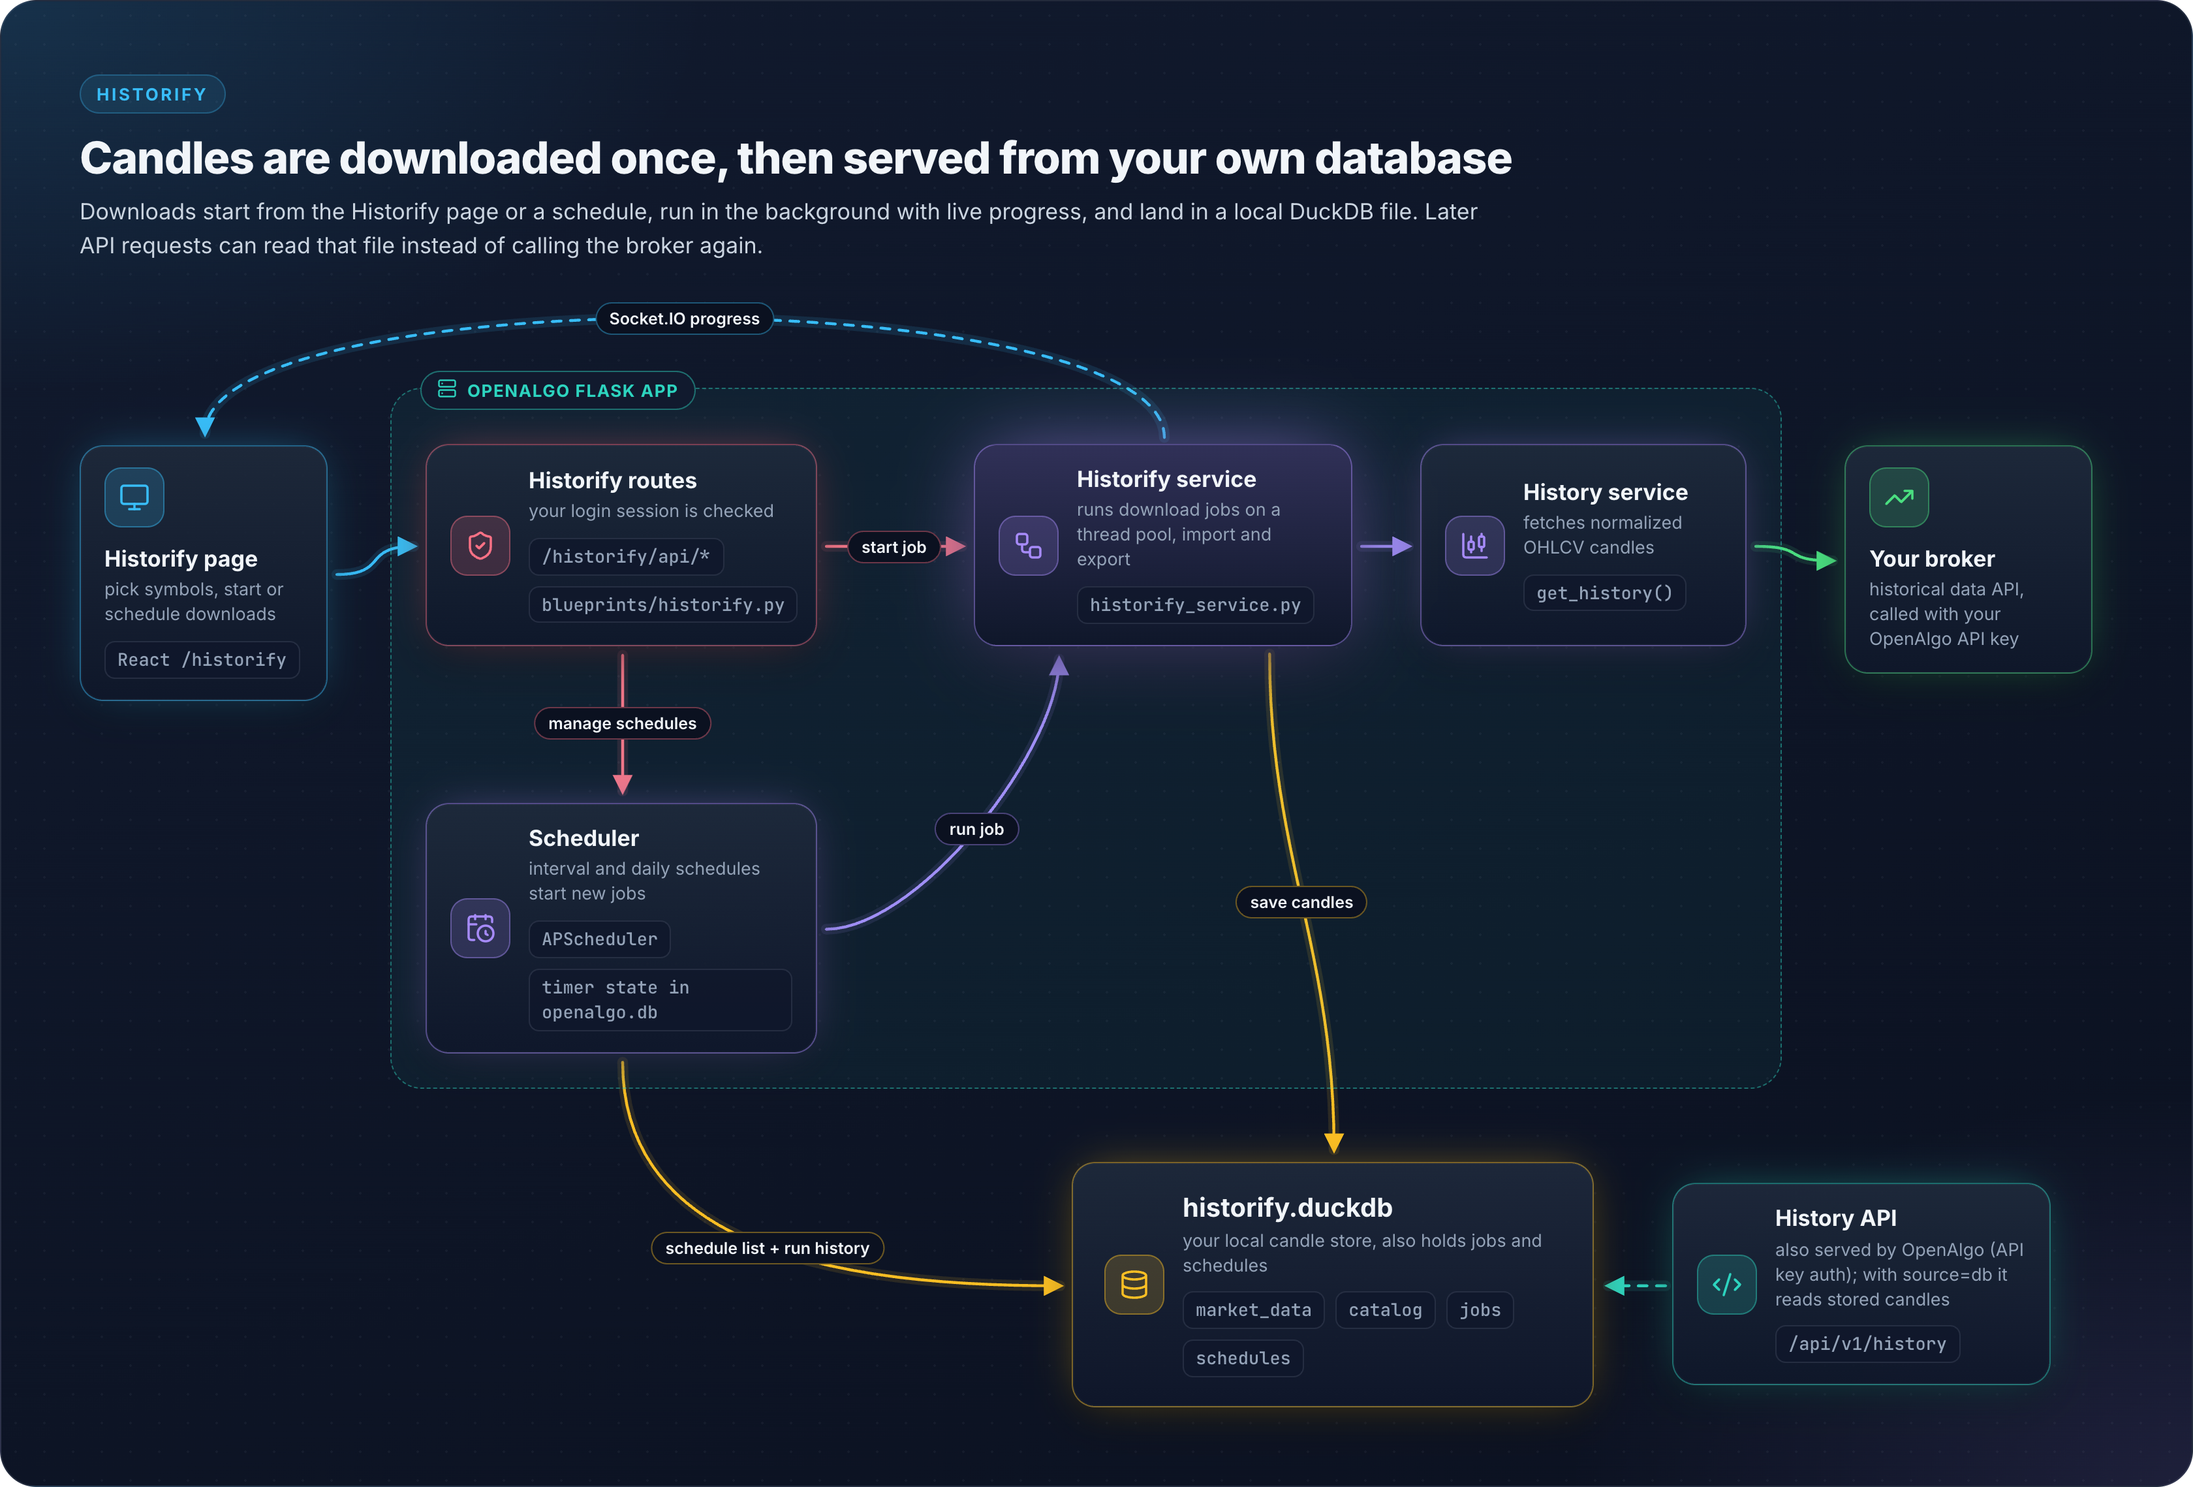
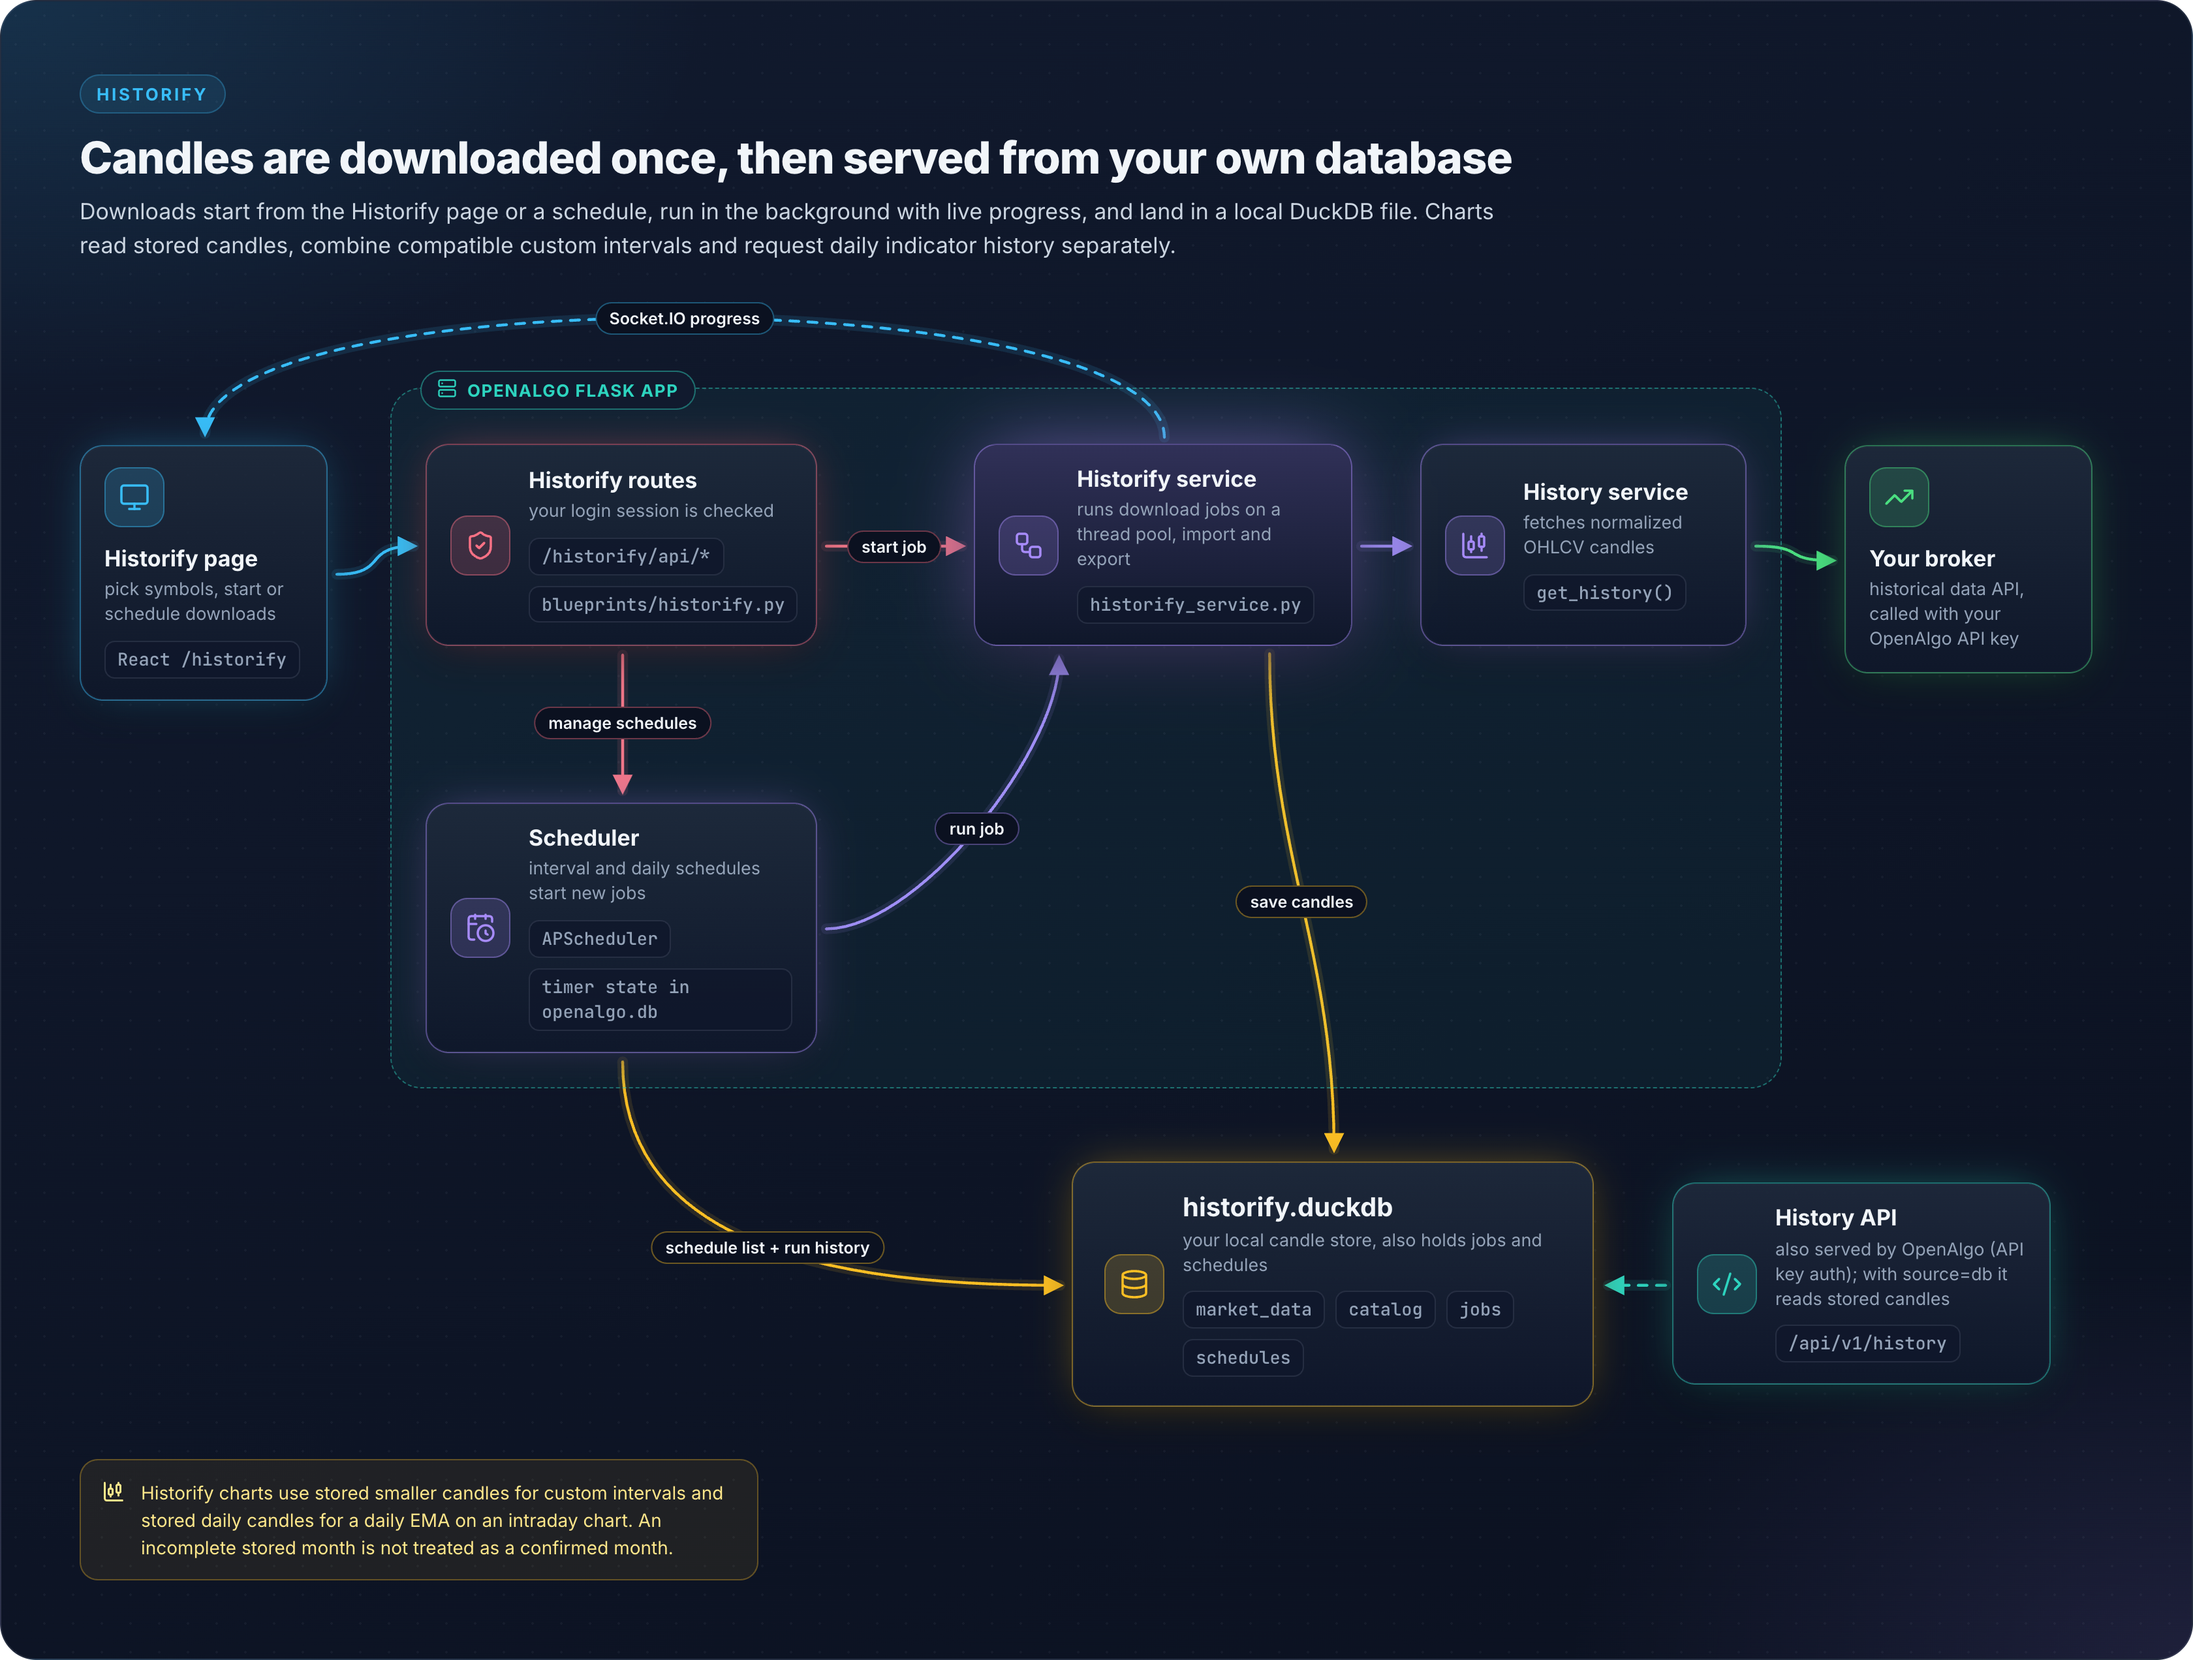
docs: explain custom chart intervals and daily study history

diff --git a/diagrams/custom-chart-intervals.html b/diagrams/custom-chart-intervals.html
@@ -1,0 +1,23 @@
+<div id="canvas" style="width:1680px">
+  <div class="title">
+    <div class="eyebrow">Trading terminal and Historify</div>
+    <h1>Choose your interval, keep the original market data</h1>
+    <p style="max-width:1250px">Custom candles combine compatible smaller candles. A daily indicator reads daily history separately, so its calculation does not depend on how much minute history your chart displays.</p>
+  </div>
+  <div class="grid" style="grid-template-columns:1fr 1fr 1fr;gap:64px;margin-top:60px">
+    <div class="node client stack" id="choice"><div class="ic" data-icon="clock"></div><div class="tx"><b>Pick or add an interval</b><span>Grouped menu, custom choices and shared favorites. Each chart keeps its own selection.</span><div class="chips"><span class="chip">7 minutes</span><span class="chip">2 hours</span><span class="chip">3 months</span></div></div></div>
+    <div class="node security stack" id="compatible"><div class="ic" data-icon="calendar-clock"></div><div class="tx"><b>Check the source and session</b><span>Use available smaller candles. Check openings, holidays and candle alignment. Never split a larger candle.</span></div></div>
+    <div class="node service stack" id="combine"><div class="ic" data-icon="layers"></div><div class="tx"><b>Combine complete source candles</b><span>Keep first open, highest high, lowest low and last close. Add traded volume within each target period.</span></div></div>
+    <div class="node broker stack" id="source"><div class="ic" data-icon="database"></div><div class="tx"><b>Use your available history</b><span>Trading reads your broker. Historify reads downloaded candles in its local database.</span><div class="chips"><span class="chip">seconds</span><span class="chip">minutes</span><span class="chip">hours</span><span class="chip">daily</span></div></div></div>
+    <div class="node service stack" id="study"><div class="ic" data-icon="activity"></div><div class="tx"><b>Fetch enough daily history</b><span>Daily EMA 200 requests its own warmup. Missing retained history is reported, never filled with invented prices.</span></div></div>
+    <div class="node app stack" id="chart"><div class="ic" data-icon="chart-candlestick"></div><div class="tx"><b>Display confirmed study values</b><span>A daily value reaches the five-minute chart only after that daily candle closes. Custom candles retain their actual period.</span></div></div>
+  </div>
+  <div class="note" style="margin-top:56px"><span data-icon="lightbulb"></span><div>Seconds need a seconds source. Weekly, monthly and quarterly candles can use daily history. Removing a custom menu choice keeps an already active chart unchanged.</div></div>
+</div>
+<script>
+  connect('choice', 'compatible', {color:'client', from:'right', to:'left'})
+  connect('compatible', 'combine', {color:'service', from:'right', to:'left'})
+  connect('source', 'study', {color:'data', from:'right', to:'left'})
+  connect('study', 'chart', {color:'service', from:'right', to:'left'})
+  connect('combine', 'chart', {color:'app', from:'bottom', to:'top'})
+</script>

diff --git a/diagrams/historify-request-path.html b/diagrams/historify-request-path.html
@@ -3,7 +3,7 @@
   <div class="title">
     <div class="eyebrow">Historify</div>
     <h1>Candles are downloaded once, then served from your own database</h1>
-    <p style="max-width:1100px">Downloads start from the Historify page or a schedule, run in the background with live progress, and land in a local DuckDB file. Later API requests can read that file instead of calling the broker again.</p>
+    <p style="max-width:1100px">Downloads start from the Historify page or a schedule, run in the background with live progress, and land in a local DuckDB file. Charts read stored candles, combine compatible custom intervals and request daily indicator history separately.</p>
   </div>
 
   <div class="col" style="gap:56px; margin-top:96px">
@@ -61,6 +61,7 @@
       </div>
     </div>
   </div>
+  <div class="note" style="margin-top:40px"><span data-icon="chart-candlestick"></span><div>Historify charts use stored smaller candles for custom intervals and stored daily candles for a daily EMA on an intraday chart. An incomplete stored month is not treated as a confirmed month.</div></div>
 </div>
 <script>
   connect('ui', 'bp', { color: 'client', from: 'right', to: 'left' })

diff --git a/new-features/trading-terminal.md b/new-features/trading-terminal.md
@@ -26,7 +26,17 @@ The terminal supports candles, bars, line and area variants, Heikin Ashi, Renko,
 
 **Bar replay** steps through the time bars on every chart type, so on a brick chart the bricks form as each bar is revealed. Trading is refused while a chart replays.
 
-**Indicators.** 112 built-in studies, and your own from `strategies/indicators/`. Several instances can be added and configured per pane. On a brick or line chart type, a study's **Compute on** row chooses between the chart's bricks and the underlying time bars. 29 built-in studies (the moving averages, Bollinger, Keltner, Donchian, Supertrend, ATR, RSI, MACD, Stochastic, CCI, ADX and others) have a **Timeframe** row: set it to a higher interval and the study is computed on the chart's bars folded into that interval, and a value appears only once that period closes. OpenScript studies and strategies are written, backtested and deployed from the Scripts panel; the language is documented at [openalgo.in/script](https://openalgo.in/script).
+**Indicators.** 112 built-in studies, and your own from `strategies/indicators/`. Several instances can be added and configured per pane. On a brick or line chart type, a study's **Compute on** row chooses between the chart's bricks and the underlying time bars. 29 built-in studies have a **Timeframe** row. The terminal requests their higher-timeframe history separately, so a daily EMA with length 200 can appear on a five-minute chart without loading years of minute candles. Values appear only after their source period closes. The broker must retain enough source history; an unavailable request reports its status rather than inventing prices. OpenScript studies and strategies are written, backtested and deployed from the Scripts panel; the language is documented at [openalgo.in/script](https://openalgo.in/script).
+
+### Custom intervals
+
+Open the interval menu and choose **Add custom interval**. Choose a unit and a positive whole number, for example 7 minutes or 2 hours. The menu groups choices by unit. Favorite choices stay in the toolbar and are shared with Historify; selecting an interval changes the active pane. Remove a custom choice from its row. Removing it from the menu does not change a chart already using it.
+
+The terminal combines smaller candles supplied by your broker. One-minute candles can form seven-minute candles; compatible hourly candles can form two-hour candles; daily candles can form weeks, months, quarters and years. Seconds require a seconds source. A larger candle cannot supply missing smaller candles. Session openings, holidays and source alignment determine which choices are available.
+
+<figure><img src="../.gitbook/assets/diagram-custom-chart-intervals.png" alt="Custom chart intervals combine compatible source candles; a separate daily history request supplies confirmed daily indicator values on an intraday chart"><figcaption></figcaption></figure>
+
+Replay never requests later confirmed values from a live-only history provider. Independent studies need a historical snapshot contract to run in replay.
 
 Volume and grid display can be adjusted independently from the primary price scale.
 

diff --git a/new-features/historify.md b/new-features/historify.md
@@ -49,6 +49,12 @@ Historical availability depends on the active broker, requested interval, and re
 
 Charts display stored historical candles, not a real-time feed. Use them to inspect gaps, range coverage, and unexpected values before relying on a dataset.
 
+Use **Add custom interval** in the grouped interval menu to add a choice such as 7 minutes, 2 hours or 3 months. Favorite choices are shared with the trading terminal; each pane keeps its own selected interval. A choice can be removed without changing a chart that already uses it.
+
+A daily EMA with length 200 on a five-minute chart reads stored daily history independently. Download enough daily candles for the calculation. A value appears only when its source period has closed and the stored range covers it. For example, a month downloaded only through its middle is not a confirmed monthly candle.
+
+<figure><img src="../.gitbook/assets/diagram-custom-chart-intervals.png" alt="Compatible source candles form custom chart intervals and independent daily history supplies confirmed daily indicator values"><figcaption></figcaption></figure>
+
 ## Import And Export
 
 Historify accepts validated CSV and Parquet uploads. Sample-file endpoints show the required structure.
